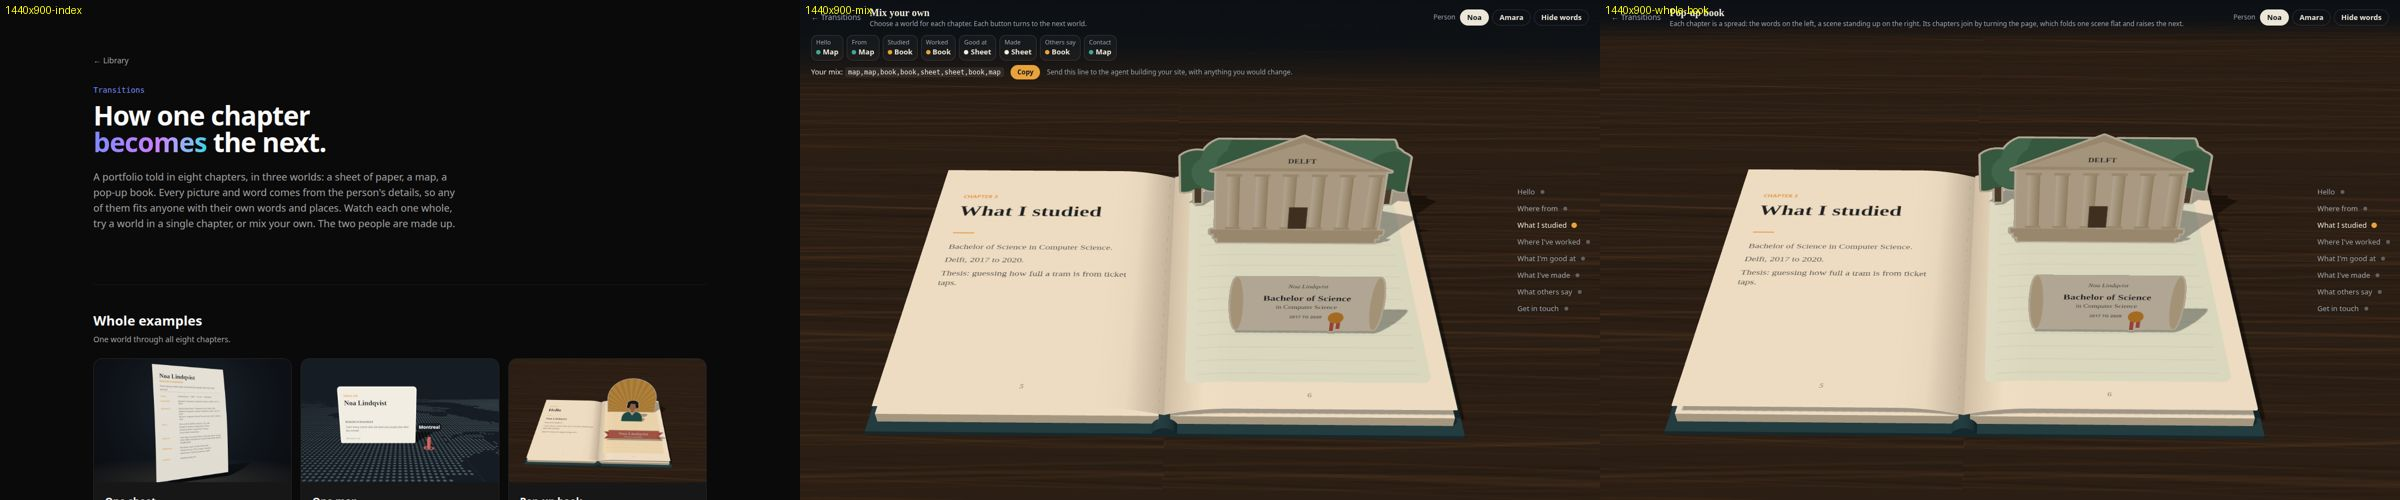
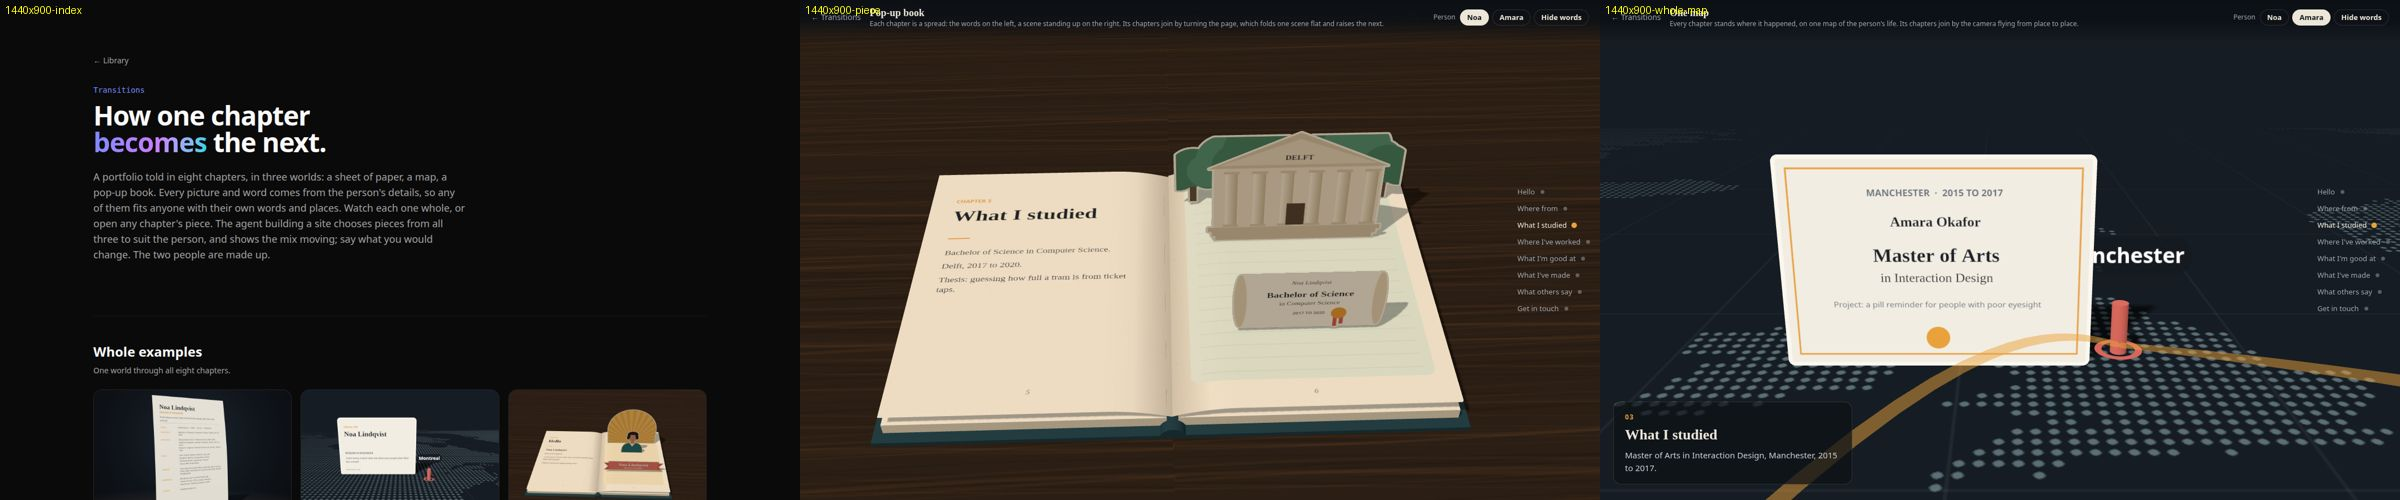
Remove the gallery's mixer: the agent mixes
The author: "No need to make the mixer. The AI ahent will mix stuff
themselves". The mixer page and the index's Mix your own section are
gone; each chapter's pictures open that whole example at that chapter
(?c=), through a start chapter on StitchedStory and an instant goTo.
A page whose CSS scrolls smoothly had turned the jump into a smooth
scroll that stopped near the top, so the stage asks for instant
scrolling, and so do the check scripts. gallery-check.mjs was rewritten
first, failed, then passed at 1440x900 and 390x844. The spec gains an
amendment; the history, study, handover and plan index record it.

diff --git a/skills/storyfolio/library/app/transitions/page.tsx b/skills/storyfolio/library/app/transitions/page.tsx
@@ -2,13 +2,13 @@ import type { Metadata } from "next";
 import Link from "next/link";
 
 import { asset } from "@/content/sample";
-import { PIECES, WORLDS, mixWith, picture } from "@/components/transitions/pieces";
+import { PIECES, WORLDS, picture } from "@/components/transitions/pieces";
 import { WAYS } from "@/components/transitions/ways";
 import { CHAPTERS } from "@/stitch/chapters";
 
 export const metadata: Metadata = {
   title: "Transitions",
-  description: "Three worlds a portfolio can be told in, every chapter of each, and a mixer to stitch your own from them.",
+  description: "Three worlds a portfolio can be told in, and every chapter of each.",
 };
 
 const card =
@@ -26,7 +26,8 @@ export default function Transitions() {
         <p className="mt-6 max-w-2xl text-pretty text-lg text-muted-foreground">
           A portfolio told in eight chapters, in three worlds: a sheet of paper, a map, a pop-up book. Every picture and
           word comes from the person&apos;s details, so any of them fits anyone with their own words and places. Watch
-          each one whole, try a world in a single chapter, or mix your own. The two people are made up.
+          each one whole, or open any chapter&apos;s piece. The agent building a site chooses pieces from all three to
+          suit the person, and shows the mix moving; say what you would change. The two people are made up.
         </p>
       </header>
 
@@ -49,28 +50,16 @@ export default function Transitions() {
         </ul>
       </section>
 
-      <section aria-labelledby="mix" className="border-t border-border/60 py-12">
-        <h2 id="mix" className="font-heading text-2xl font-bold">Mix your own</h2>
-        <p className="mt-2 max-w-2xl text-pretty text-muted-foreground">
-          Choose the world for each chapter and watch the whole site move. Two chapters in different worlds join by the
-          camera diving into a window that holds the next one. The mixer gives you one line to send to the agent
-          building your site.
-        </p>
-        <Link href="/transitions/mix/" className="mt-6 inline-flex h-11 items-center rounded-lg bg-primary px-5 text-sm font-medium text-primary-foreground hover:bg-primary/85">
-          Open the mixer
-        </Link>
-      </section>
-
       <section aria-labelledby="pieces" className="border-t border-border/60 py-12">
         <h2 id="pieces" className="font-heading text-2xl font-bold">Chapter by chapter</h2>
-        <p className="mt-2 text-sm text-muted-foreground">Each world&apos;s piece for each chapter. Open one to see it in a site, with the sheet everywhere else.</p>
+        <p className="mt-2 text-sm text-muted-foreground">Each world&apos;s piece for each chapter. Open one to see it in its example, at that chapter.</p>
         {CHAPTERS.map((c, i) => (
           <div key={c.key} className="mt-10">
             <h3 className="font-heading text-lg font-semibold"><span className="mr-2 font-mono text-sm text-brand">{i + 1}</span>{c.title}</h3>
             <ul className="mt-3 grid gap-3 sm:grid-cols-3">
               {WORLDS.map((w) => (
                 <li key={w.id}>
-                  <Link href={`/transitions/mix/?m=${mixWith(w.id, c.key)}`} className={card}>
+                  <Link href={`/transitions/whole/${w.id}/?c=${c.key}`} className={card}>
                     {/* eslint-disable-next-line @next/next/no-img-element */}
                     <img src={asset(picture(w.id, c.key))} width={960} height={600} alt={`${w.name}: ${PIECES[w.id][c.key]}`} loading="lazy" className="aspect-[8/5] w-full object-cover" />
                     <span className="px-4 py-3 text-sm">

diff --git a/skills/storyfolio/library/components/transitions/gallery-bar.tsx b/skills/storyfolio/library/components/transitions/gallery-bar.tsx
@@ -1,12 +1,13 @@
 "use client";
-/* A stitched story in the gallery: a bar to go back, switch person and hide the words, over the story itself. */
+/* A whole example in the gallery: a bar to go back, switch person and hide the words, over the story itself. */
 import Link from "next/link";
 import { usePathname, useRouter, useSearchParams } from "next/navigation";
-import { useState, type ReactNode } from "react";
+import { useState } from "react";
 
 import { StitchedStory } from "@/stitch/react";
 import { SAMPLE_PEOPLE } from "@/stitch/people";
 import type { Mix } from "@/stitch/mix";
+import { CHAPTERS } from "@/stitch/chapters";
 
 export type PersonKey = keyof typeof SAMPLE_PEOPLE;
 const KEYS = Object.keys(SAMPLE_PEOPLE) as PersonKey[];
@@ -26,8 +27,8 @@ export function useQuery() {
   };
 }
 
-export function GalleryBar({ title, how, showWords, onWords, children }: {
-  title: string; how: string; showWords: boolean; onWords: (show: boolean) => void; children?: ReactNode;
+export function GalleryBar({ title, how, showWords, onWords }: {
+  title: string; how: string; showWords: boolean; onWords: (show: boolean) => void;
 }) {
   const person = usePersonKey();
   const setQuery = useQuery();
@@ -62,19 +63,20 @@ export function GalleryBar({ title, how, showWords, onWords, children }: {
           </button>
         </div>
       </div>
-      {children}
     </header>
   );
 }
 
-/** The bar and the story, for a fixed mix or one the page chooses. */
-export function GalleryStory({ title, how, mix, children }: { title: string; how: string; mix: Mix; children?: ReactNode }) {
+/** The bar and the story. `?c=<chapter>` opens it at that chapter, as each piece's picture on the index does. */
+export function GalleryStory({ title, how, mix }: { title: string; how: string; mix: Mix }) {
   const person = usePersonKey();
+  const asked = useSearchParams().get("c");
+  const start = CHAPTERS.find((c) => c.key === asked)?.key;
   const [showWords, setShowWords] = useState(true);
   return (
     <>
-      <GalleryBar title={title} how={how} showWords={showWords} onWords={setShowWords}>{children}</GalleryBar>
-      <StitchedStory person={SAMPLE_PEOPLE[person]} mix={mix} showWords={showWords} />
+      <GalleryBar title={title} how={how} showWords={showWords} onWords={setShowWords} />
+      <StitchedStory person={SAMPLE_PEOPLE[person]} mix={mix} showWords={showWords} start={start} />
     </>
   );
 }

diff --git a/skills/storyfolio/engine/stitch/react.tsx b/skills/storyfolio/engine/stitch/react.tsx
@@ -10,9 +10,10 @@ import { miniPicture, canvas as paintCanvas } from "./paint.ts";
 import { smooth, type ScrollState } from "./scroll.ts";
 import "./stitch.css";
 
-type Handle = { dispose(): void; goTo(index: number): void };
+type Handle = { dispose(): void; goTo(index: number, instant?: boolean): void };
 
-export function StitchedStory({ person, mix, showWords = true }: { person: Person; mix: Mix; showWords?: boolean }) {
+/** `start` opens the story at that chapter when the page is at its top, as a link to one chapter's piece does. */
+export function StitchedStory({ person, mix, showWords = true, start }: { person: Person; mix: Mix; showWords?: boolean; start?: ChapterKey }) {
   const keys = useMemo(() => chaptersFor(person), [person]);
   const words = useMemo(() => captions(person, keys), [person, keys]);
   const mixText = formatMix(mix);
@@ -43,10 +44,16 @@ export function StitchedStory({ person, mix, showWords = true }: { person: Perso
     };
     import("./stage.ts")
       .then(({ mountStitch }) => mountStitch(canvas, { person, mix: parseMix(mixText)!, spacer, onState, onProject: setProject }))
-      .then((h) => { if (alive) { handle.current = h; setScene("on"); } else h.dispose(); })
+      .then((h) => {
+        if (!alive) { h.dispose(); return; }
+        handle.current = h;
+        setScene("on");
+        const at = start ? keys.indexOf(start) : -1;
+        if (at > 0 && window.scrollY < 2) h.goTo(at, true);
+      })
       .catch((e) => { console.error(e); if (alive) setScene("off"); });
     return () => { alive = false; handle.current?.dispose(); handle.current = null; };
-  }, [person, mixText, keys]);
+  }, [person, mixText, keys, start]);
 
   useEffect(() => {
     if (!project) return;

diff --git a/skills/storyfolio/library/stitch/react.tsx b/skills/storyfolio/library/stitch/react.tsx
@@ -10,9 +10,10 @@ import { miniPicture, canvas as paintCanvas } from "./paint.ts";
 import { smooth, type ScrollState } from "./scroll.ts";
 import "./stitch.css";
 
-type Handle = { dispose(): void; goTo(index: number): void };
+type Handle = { dispose(): void; goTo(index: number, instant?: boolean): void };
 
-export function StitchedStory({ person, mix, showWords = true }: { person: Person; mix: Mix; showWords?: boolean }) {
+/** `start` opens the story at that chapter when the page is at its top, as a link to one chapter's piece does. */
+export function StitchedStory({ person, mix, showWords = true, start }: { person: Person; mix: Mix; showWords?: boolean; start?: ChapterKey }) {
   const keys = useMemo(() => chaptersFor(person), [person]);
   const words = useMemo(() => captions(person, keys), [person, keys]);
   const mixText = formatMix(mix);
@@ -43,10 +44,16 @@ export function StitchedStory({ person, mix, showWords = true }: { person: Perso
     };
     import("./stage.ts")
       .then(({ mountStitch }) => mountStitch(canvas, { person, mix: parseMix(mixText)!, spacer, onState, onProject: setProject }))
-      .then((h) => { if (alive) { handle.current = h; setScene("on"); } else h.dispose(); })
+      .then((h) => {
+        if (!alive) { h.dispose(); return; }
+        handle.current = h;
+        setScene("on");
+        const at = start ? keys.indexOf(start) : -1;
+        if (at > 0 && window.scrollY < 2) h.goTo(at, true);
+      })
       .catch((e) => { console.error(e); if (alive) setScene("off"); });
     return () => { alive = false; handle.current?.dispose(); handle.current = null; };
-  }, [person, mixText, keys]);
+  }, [person, mixText, keys, start]);
 
   useEffect(() => {
     if (!project) return;

diff --git a/skills/storyfolio/library/components/transitions/pieces.ts b/skills/storyfolio/library/components/transitions/pieces.ts
@@ -1,6 +1,6 @@
 /* The three worlds of the transitions gallery, and the piece each one gives every chapter. */
 import type { ChapterKey } from "@/stitch/chapters";
-import { WHOLE, formatMix, type Mix, type WorldId } from "@/stitch/mix";
+import type { WorldId } from "@/stitch/mix";
 
 export const WORLDS: readonly { id: WorldId; name: string; how: string; joins: string }[] = [
   {
@@ -22,13 +22,6 @@ export const WORLDS: readonly { id: WorldId; name: string; how: string; joins: s
     joins: "Its chapters join by turning the page, which folds one scene flat and raises the next.",
   },
 ];
-
-export const worldName = (id: WorldId) => WORLDS.find((w) => w.id === id)!.name;
-
-/** Short names for the mixer's buttons. */
-export const SHORT: Record<ChapterKey, string> = {
-  hello: "Hello", from: "From", studied: "Studied", worked: "Worked", good: "Good at", made: "Made", say: "Others say", contact: "Contact",
-};
 
 /** What each world shows in each chapter. */
 export const PIECES: Record<WorldId, Record<ChapterKey, string>> = {
@@ -63,11 +56,5 @@ export const PIECES: Record<WorldId, Record<ChapterKey, string>> = {
     contact: "An envelope with the email",
   },
 };
-
-/** One world in one chapter, the sheet everywhere else: how a piece is tried on its own. */
-export function mixWith(world: WorldId, chapter: ChapterKey): string {
-  const m: Mix = { ...WHOLE.sheet, [chapter]: world };
-  return formatMix(m);
-}
 
 export const picture = (world: WorldId, chapter: ChapterKey) => `/transitions/pieces/${world}-${chapter}.jpg`;

diff --git a/skills/storyfolio/engine/stitch/stage.ts b/skills/storyfolio/engine/stitch/stage.ts
@@ -23,7 +23,7 @@ export type StitchOptions = {
   onState?: (st: ScrollState, keys: ChapterKey[]) => void;
   onProject?: (p: Project) => void;
 };
-export type Stitch = { dispose(): void; goTo(index: number): void };
+export type Stitch = { dispose(): void; goTo(index: number, instant?: boolean): void };
 
 /** What scripts/stitch-check.mjs reads. One story per page. */
 type Probe = {
@@ -193,8 +193,10 @@ async function mount(canvas: HTMLCanvasElement, o: StitchOptions, keys: ChapterK
   probe.ready = true;
 
   return {
-    goTo(index: number) {
-      window.scrollTo({ top: top() + index * unit(), behavior: motion.matches ? "auto" : "smooth" });
+    goTo(index: number, instant = false) {
+      // "instant", not "auto": a page whose CSS scrolls smoothly would turn "auto" into a smooth scroll.
+      window.scrollTo({ top: top() + index * unit(), behavior: instant || motion.matches ? "instant" : "smooth" });
+      if (instant) shown = Math.max(0, target());
     },
     dispose() {
       cancelAnimationFrame(raf);

diff --git a/skills/storyfolio/library/stitch/stage.ts b/skills/storyfolio/library/stitch/stage.ts
@@ -23,7 +23,7 @@ export type StitchOptions = {
   onState?: (st: ScrollState, keys: ChapterKey[]) => void;
   onProject?: (p: Project) => void;
 };
-export type Stitch = { dispose(): void; goTo(index: number): void };
+export type Stitch = { dispose(): void; goTo(index: number, instant?: boolean): void };
 
 /** What scripts/stitch-check.mjs reads. One story per page. */
 type Probe = {
@@ -193,8 +193,10 @@ async function mount(canvas: HTMLCanvasElement, o: StitchOptions, keys: ChapterK
   probe.ready = true;
 
   return {
-    goTo(index: number) {
-      window.scrollTo({ top: top() + index * unit(), behavior: motion.matches ? "auto" : "smooth" });
+    goTo(index: number, instant = false) {
+      // "instant", not "auto": a page whose CSS scrolls smoothly would turn "auto" into a smooth scroll.
+      window.scrollTo({ top: top() + index * unit(), behavior: instant || motion.matches ? "instant" : "smooth" });
+      if (instant) shown = Math.max(0, target());
     },
     dispose() {
       cancelAnimationFrame(raf);

diff --git a/skills/storyfolio/engine/content/mix.ts b/skills/storyfolio/engine/content/mix.ts
@@ -1,6 +1,7 @@
 import { WHOLE, type Mix } from "@/stitch/mix";
 
-// Which world holds each chapter, in chapter order. The gallery's mixer
-// writes this as one line, such as "sheet,map,map,book,book,sheet,map,book";
-// read it with parseMix from stitch/mix.ts.
+// Which world holds each chapter, in chapter order: the agent chooses it to
+// suit the person, from the pieces in the library's gallery. As one line it
+// reads like "sheet,map,map,book,book,sheet,map,book" (parseMix and formatMix
+// in stitch/mix.ts), which is also what /preview?mix= takes.
 export const mix: Mix = WHOLE.sheet;

diff --git a/docs/handover.md b/docs/handover.md
@@ -4,7 +4,9 @@ Current state as of 21 October 2026. Start with this page and
 [the repository rules](../AGENTS.md). The [documentation map](README.md)
 links the design, plans, operating instructions and evidence.
 
-Latest, 28 October: **plan 1 of 3 is built; publishing the gallery waits for the author's word to push.** On the author's "continue with the development" ([record](history/2026-10-27-transition-examples-request.md#28-october-plan-1-goes-ahead)), root executed [the plan](superpowers/plans/2026-10-27-stitch-pieces-and-gallery.md) Tasks 1 to 9 ([study](../evals/engine/stitch-1/README.md)). The three examples (sheet, map, book) are worlds in `skills/storyfolio/engine/stitch/`, each able to hold any chapter and drawn only from the person's data; a site is a mix, one world per chapter (`content/person.ts`, `content/mix.ts`), shown at `/preview`. Two chapters in one world join by its own move, in two worlds by a dive: a window showing the next world fades in, then the camera flies into it. The sheet and map gained the book's finish (lamp shadows, grain, die-cut cards, a camera that leans in). The library carries a byte-checked copy (`scripts/sync-stitch.mjs`) and a gallery at `/transitions/`: the whole examples, a mixer whose copyable line is what a person sends the agent, and every chapter's pieces. `scripts/stitch-check.mjs` passes for every whole world, an all-dive mix, a mixed site and an edge person, both people, desktop and phone; the library's `scripts/gallery-check.mjs` passes on the export. 396 tests, `check-skill` ok. A self-review fixed one thing (the dive's window now falls back where a phone cannot draw half float). Still weak: the dive's window floats over the scene rather than sitting in an element of it; small words on the sheet's wall on a phone; a dark map. No skill text changed and no run. Root has asked the author whether to push `main` so the gallery goes live (Task 10); the answer goes verbatim into the history record. Then Plan 2, the skill's second stop. Environment here: Chromium 1234 at `~/.cache/ms-playwright/chromium-1234/` (playwright-core 1.64 wants 1248), named with `CHROMIUM`; check production builds, since `next dev`'s live-reload socket fails here; never `pkill -f` a pattern that is in the running shell command, which kills the shell.
+Latest, 28 October (later): **the mixer is removed; the agent mixes.** The author: "No need to make the mixer. The AI ahent will mix stuff themselves" ([record](history/2026-10-27-transition-examples-request.md#28-october-later-no-mixer), [spec amendment](superpowers/specs/2026-10-27-transitions-gallery-design.md#amendment-28-october-2026)). The gallery now shows the whole examples and each chapter's pieces; a piece opens its example at that chapter (`?c=`). `gallery-check.mjs` passes at both sizes; 396 tests. The question of pushing was not answered and is asked again. Plan 2 (the skill's second stop) now has the agent write `content/mix.ts` itself and point the person to the gallery for ideas, with no mix line to copy.
+
+Earlier, 28 October: **plan 1 of 3 is built; publishing the gallery waits for the author's word to push.** On the author's "continue with the development" ([record](history/2026-10-27-transition-examples-request.md#28-october-plan-1-goes-ahead)), root executed [the plan](superpowers/plans/2026-10-27-stitch-pieces-and-gallery.md) Tasks 1 to 9 ([study](../evals/engine/stitch-1/README.md)). The three examples (sheet, map, book) are worlds in `skills/storyfolio/engine/stitch/`, each able to hold any chapter and drawn only from the person's data; a site is a mix, one world per chapter (`content/person.ts`, `content/mix.ts`), shown at `/preview`. Two chapters in one world join by its own move, in two worlds by a dive: a window showing the next world fades in, then the camera flies into it. The sheet and map gained the book's finish (lamp shadows, grain, die-cut cards, a camera that leans in). The library carries a byte-checked copy (`scripts/sync-stitch.mjs`) and a gallery at `/transitions/`: the whole examples, a mixer whose copyable line is what a person sends the agent, and every chapter's pieces. `scripts/stitch-check.mjs` passes for every whole world, an all-dive mix, a mixed site and an edge person, both people, desktop and phone; the library's `scripts/gallery-check.mjs` passes on the export. 396 tests, `check-skill` ok. A self-review fixed one thing (the dive's window now falls back where a phone cannot draw half float). Still weak: the dive's window floats over the scene rather than sitting in an element of it; small words on the sheet's wall on a phone; a dark map. No skill text changed and no run. Root has asked the author whether to push `main` so the gallery goes live (Task 10); the answer goes verbatim into the history record. Then Plan 2, the skill's second stop. Environment here: Chromium 1234 at `~/.cache/ms-playwright/chromium-1234/` (playwright-core 1.64 wants 1248), named with `CHROMIUM`; check production builds, since `next dev`'s live-reload socket fails here; never `pkill -f` a pattern that is in the running shell command, which kills the shell.
 
 Earlier, 27 October (later): **the design for transitions is approved by the author ("Yes, this is right."); [plan 1 of 3](superpowers/plans/2026-10-27-stitch-pieces-and-gallery.md) is written and waits for the author's review** ([design](superpowers/specs/2026-10-27-transitions-gallery-design.md)). In conversation the author decided: a gallery of every transition on the Pages site; the agent recommends one mix of pieces from different examples, suited to the profile, and shows it moving before building; then invites the person to swap pieces from the gallery, customize, suggest new components or bring their own design; examples used as they are, with only the words and places changed; moves at round 2's slower pace ([record](history/2026-10-27-transition-examples-request.md)). Nothing built from it yet; no push and no run.
 

diff --git a/docs/superpowers/plans/README.md b/docs/superpowers/plans/README.md
@@ -13,7 +13,7 @@ Claude commands and old cohort destinations in original plans are historical.
 
 | Plan | Status and outcome | Successor or evidence |
 |---|---|---|
-| [Stitched pieces and the transitions gallery](2026-10-27-stitch-pieces-and-gallery.md) (27 October 2026) | Executed 28 October on the author's "continue with the development", Tasks 1 to 9: the three examples are worlds in `engine/stitch/` (checked copy in the library), joined within a world or by a dive, previewed at `/preview`, checked by `scripts/stitch-check.mjs`, and shown in the library's gallery with a mixer. Task 10, publishing, waits for the author's word to push. | [stitch-1](../../../evals/engine/stitch-1/README.md); Plan 2 (the skill's second stop) and Plan 3 (person test rerun) follow. |
+| [Stitched pieces and the transitions gallery](2026-10-27-stitch-pieces-and-gallery.md) (27 October 2026) | Executed 28 October on the author's "continue with the development", Tasks 1 to 9: the three examples are worlds in `engine/stitch/` (checked copy in the library), joined within a world or by a dive, previewed at `/preview`, checked by `scripts/stitch-check.mjs`, and shown in the library's gallery. The gallery's mixer was then removed on the author's word (the agent mixes). Task 10, publishing, waits for the author's word to push. | [stitch-1](../../../evals/engine/stitch-1/README.md); Plan 2 (the skill's second stop) and Plan 3 (person test rerun) follow. |
 | [Remaining work to completion](2026-10-14-remaining-work-to-completion.md) (14 October 2026) | Documentation only. Orders the open work into 24 items: 3 done, 7 to finish the current six-stop proof, 3 comparisons, the author's site review, 4 Stage 1 decisions and 6 packaging items. Estimates five to seven sessions if gates pass first time. Flags a projected token/time ceiling risk before turn 6. | [Author request](../../history/2026-10-14-remaining-work-request.md); consolidates the 13 October plan below without new run authority. |
 | [Current stage status and next implementation](2026-10-13-stage-status-and-next-implementation.md) (13 October 2026) | Planning only. Method closure remains open, engine approved, current build candidate at storyboard approval, packaging follows whole-site acceptance. Next deliverable: three-beat spine in reviewable looks after the pending ten-beat scope decision. | [Author request](../../history/2026-10-13-next-implementation-request.md); [latest storyboard](../../../evals/runs/stage-3-storyboard-length-1/turn-3-disposition.md). Consolidates the retained execution sequence without new run authority. |
 | [Finish Stage 3 execution](2026-10-12-stage-3-completion-execution.md) (12 October 2026) | Necessary paid work now authorized. Saved-source verification, narrow workflow corrections, matched tests, planning regression and full journey. Real author approval remains. | [Authority](../../history/2026-10-12-stage-3-completion-authority.md); [study](../../../evals/runs/stage-3-completion-2/findings.md). |

diff --git a/skills/storyfolio/library/README.md b/skills/storyfolio/library/README.md
@@ -62,17 +62,15 @@ through `asset()` in `content/sample.ts`.
 
 `/transitions/` shows how one chapter of a site becomes the next, in three
 worlds: one sheet, one map, a pop-up book. It has the three whole examples
-(`/transitions/whole/<world>/`), the mixer (`/transitions/mix/`), each
-chapter's three pieces as pictures (each opens that piece in a site, with
-the sheet elsewhere), and the earlier study of one seam joined four ways,
-whose swap is marked as not to use. A bar over every story switches between
-the two made-up people and hides the words.
+(`/transitions/whole/<world>/`), each chapter's three pieces as pictures
+(each opens its example at that chapter, `?c=<chapter>`), and the earlier
+study of one seam joined four ways, whose swap is marked as not to use. A
+bar over every story switches between the two made-up people and hides the
+words.
 
-The mixer turns each chapter to the next world and shows the whole mix as
-one line, such as `map,map,book,book,sheet,sheet,book,map`, with a copy
-button: the line a person sends to the agent building their site, which
-puts it in the site's `content/mix.ts`. The address keeps `?m=` and `?p=`,
-so a mix can be shared.
+There is no mixer: the agent building a site chooses the pieces for each
+chapter and shows the mix moving; a person looks here for ideas and says
+in words what they would change (the author, 28 October).
 
 The worlds are `stitch/`, a copy of the engine's (see the engine's README,
 "A stitched story"). Do not edit it here: change the engine's and run
@@ -83,7 +81,7 @@ skill fails when the two differ.
 `public/transitions/pieces/` from a running build; run it again when a
 world changes. `scripts/gallery-check.mjs` checks a build, local or live,
 at desktop and phone sizes: no page error or failed request, no sideways
-scroll, the copy button, and the person switch keeping the mix. Both need a
+scroll, a piece opening at its chapter, and the person switch. Both need a
 `playwright-core` (`PLAYWRIGHT_CORE`, such as an engine copy's), which the
 library does not install.
 

diff --git a/evals/studies.md b/evals/studies.md
@@ -57,7 +57,7 @@ its review criteria and independent runtime observations are separate.
 | [drawing-kit-1](engine/drawing-kit-1/README.md) | Diagram reference, craft rules and engine drawing kit (pen, `Figure`, Natural Earth map), shown drawing five of Dawit Bekele's diagrams at desktop and phone sizes. Engine check 15/15, 362 tests. No agent run; the person test rerun waits for the author |
 | [transitions-1](engine/transitions-1/README.md) | One seam (a data pipeline becoming a route on a map) joined four ways: today's swap, line morph, hand-off, camera dive. Shown on Pages; no agent run |
 | [transitions-2](engine/transitions-2/README.md) | Three examples through all eight chapters (one sheet, one map, a pop-up book), drawn from a person's data with two made-up people; slowed and the book remade after the author's review. No agent run |
-| [stitch-1](engine/stitch-1/README.md) | Plan 1 of the transitions design: the three examples as worlds in the engine's `stitch/`, joined within a world or by a dive, previewed at `/preview`, and a gallery with a mixer in the library. stitch-check passes for every whole world, an all-dive mix, a mixed site and an edge person, both people, 1440x900 and 390x844; gallery-check passes on the export. 396 tests. No agent run; not yet published
+| [stitch-1](engine/stitch-1/README.md) | Plan 1 of the transitions design: the three examples as worlds in the engine's `stitch/`, joined within a world or by a dive, previewed at `/preview`, and a gallery in the library (its mixer later removed: the agent mixes). stitch-check passes for every whole world, an all-dive mix, a mixed site and an edge person, both people, 1440x900 and 390x844; gallery-check passes on the export. 396 tests. No agent run; not yet published
 
 ## Cases and comparison rules
 
